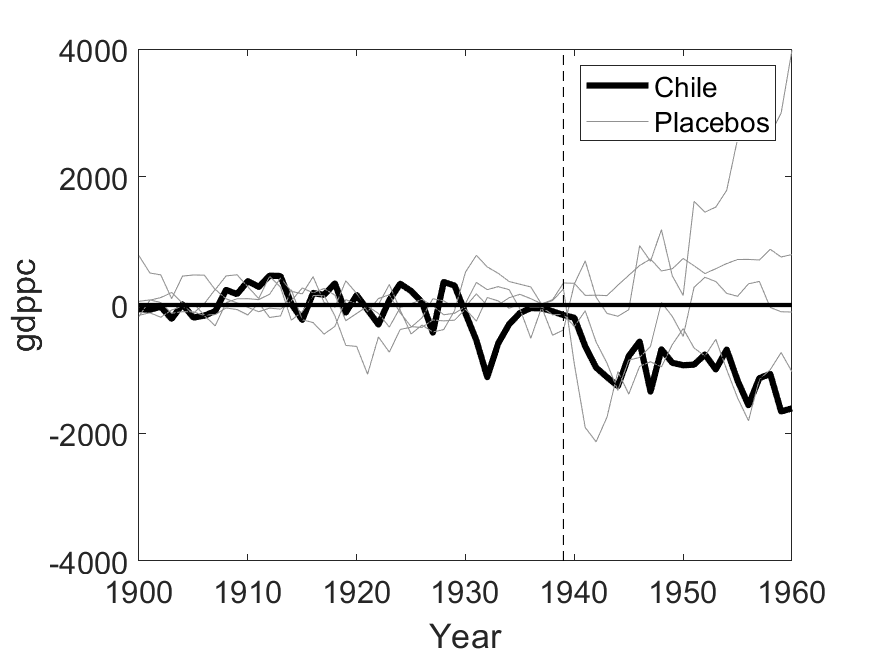
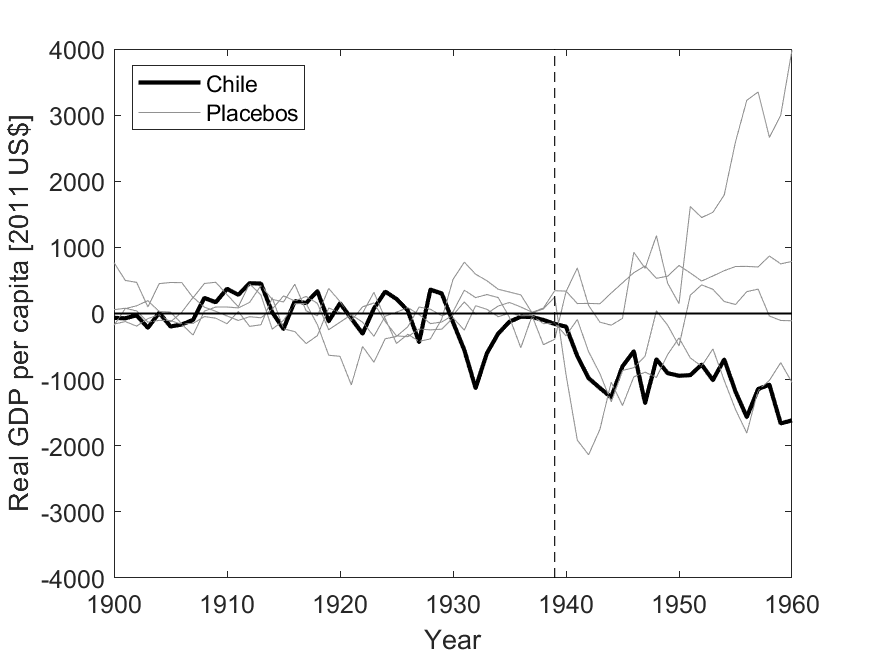
Adjusted linewidth of figures and changed axis y label in synthetic controls

diff --git a/scripts/synthetic_control.m b/scripts/synthetic_control.m
@@ -75,7 +75,7 @@ synthControl = Y2*W(1:(nControls+1));
 
 fig = plot(year, Y1, 'Color', [0, 0, 0]);
 hold on
-plot(year, synthControl, '--',  'LineWidth', 3, 'Color', [1, 0, 0])
+plot(year, synthControl, '--',  'LineWidth', 1, 'Color', [1, 0, 0])
 l = line([treatmentYear treatmentYear], get(gca, 'YLim'), 'Color',...
     [0, 0, 0]);
 set(l, 'LineStyle', '--');
@@ -84,12 +84,12 @@ set(l, 'LineStyle', '--');
 
 %title([treatmentCountryName, ' Synthetic Control ', num2str(treatmentYear)]);
 xlabel('Year');
-ylabel('gdppc');
+ylabel('Real GDP per capita [2011 US$]');
 axis([initialYear 1960 -Inf +Inf]);
 
 legend(treatmentCountryName, 'Synthetic control', 'Location', 'northwest');
-set(fig, 'LineWidth', 2);
-set(gca,'fontsize',15)
+set(fig, 'LineWidth', 1);
+set(gca,'fontsize',12)
 print(figure_filename, '-dpng');
 movefile([figure_filename, '.png'], '../figures')
 close;

diff --git a/scripts/plot_RMSPE_series.m b/scripts/plot_RMSPE_series.m
@@ -4,16 +4,19 @@ function plot_RMSPE_series(year, ratio, figure_filename)
 %Plots the RMSPE ratio
 
 fig = plot(year, ratio, 'Color', [0, 0, 0]);
- 
+
 axis([1920 1955 -1 12]);
 
 %title([treatmentCountryName, ' RMSPE ratio versus T0']);
 xlabel('Year');
 ylabel('RMSPE ratio');
 
-legend('RMSPE Ratio', 'Location', 'northwest');
-set(fig, 'LineWidth', 2);
-set(gca,'fontsize',15)
+l = line([1941 1941], get(gca, 'YLim'), 'Color', [0, 0, 0]);
+set(l, 'LineStyle', '--');
+
+%legend('RMSPE Ratio', 'Location', 'northwest');
+set(fig, 'LineWidth', 1);
+set(gca,'fontsize',12)
 
 print([figure_filename], '-dpng');
 movefile([figure_filename, '.png'], '../figures')

diff --git a/scripts/placebo_plot_clean.m b/scripts/placebo_plot_clean.m
@@ -30,14 +30,13 @@ fig = plot(get(gca,'xlim'), [0 0], 'Color', [0,0,0]);
 
 %title([treatmentCountryName, ' placebo test ', num2str(treatmentYear)]);
 xlabel('Year');
-ylabel('gdppc');
+ylabel('Real GDP per capita [2011 US$]');
 set(l, 'LineStyle', '--');
 
-legend(treatmentCountryName, 'Placebos', 'Location', 'northeast');
-set(fig, 'LineWidth', 2);
-set(gca,'fontsize',15);
-placebos(1).LineWidth = 3;
+legend(treatmentCountryName, 'Placebos', 'Location', 'northwest');
+set(fig, 'LineWidth', 1);
+set(gca,'fontsize',12);
+placebos(1).LineWidth = 2;
 print(figure_filename, '-dpng');
 movefile([figure_filename, '.png'], '../figures');
-
 close;
